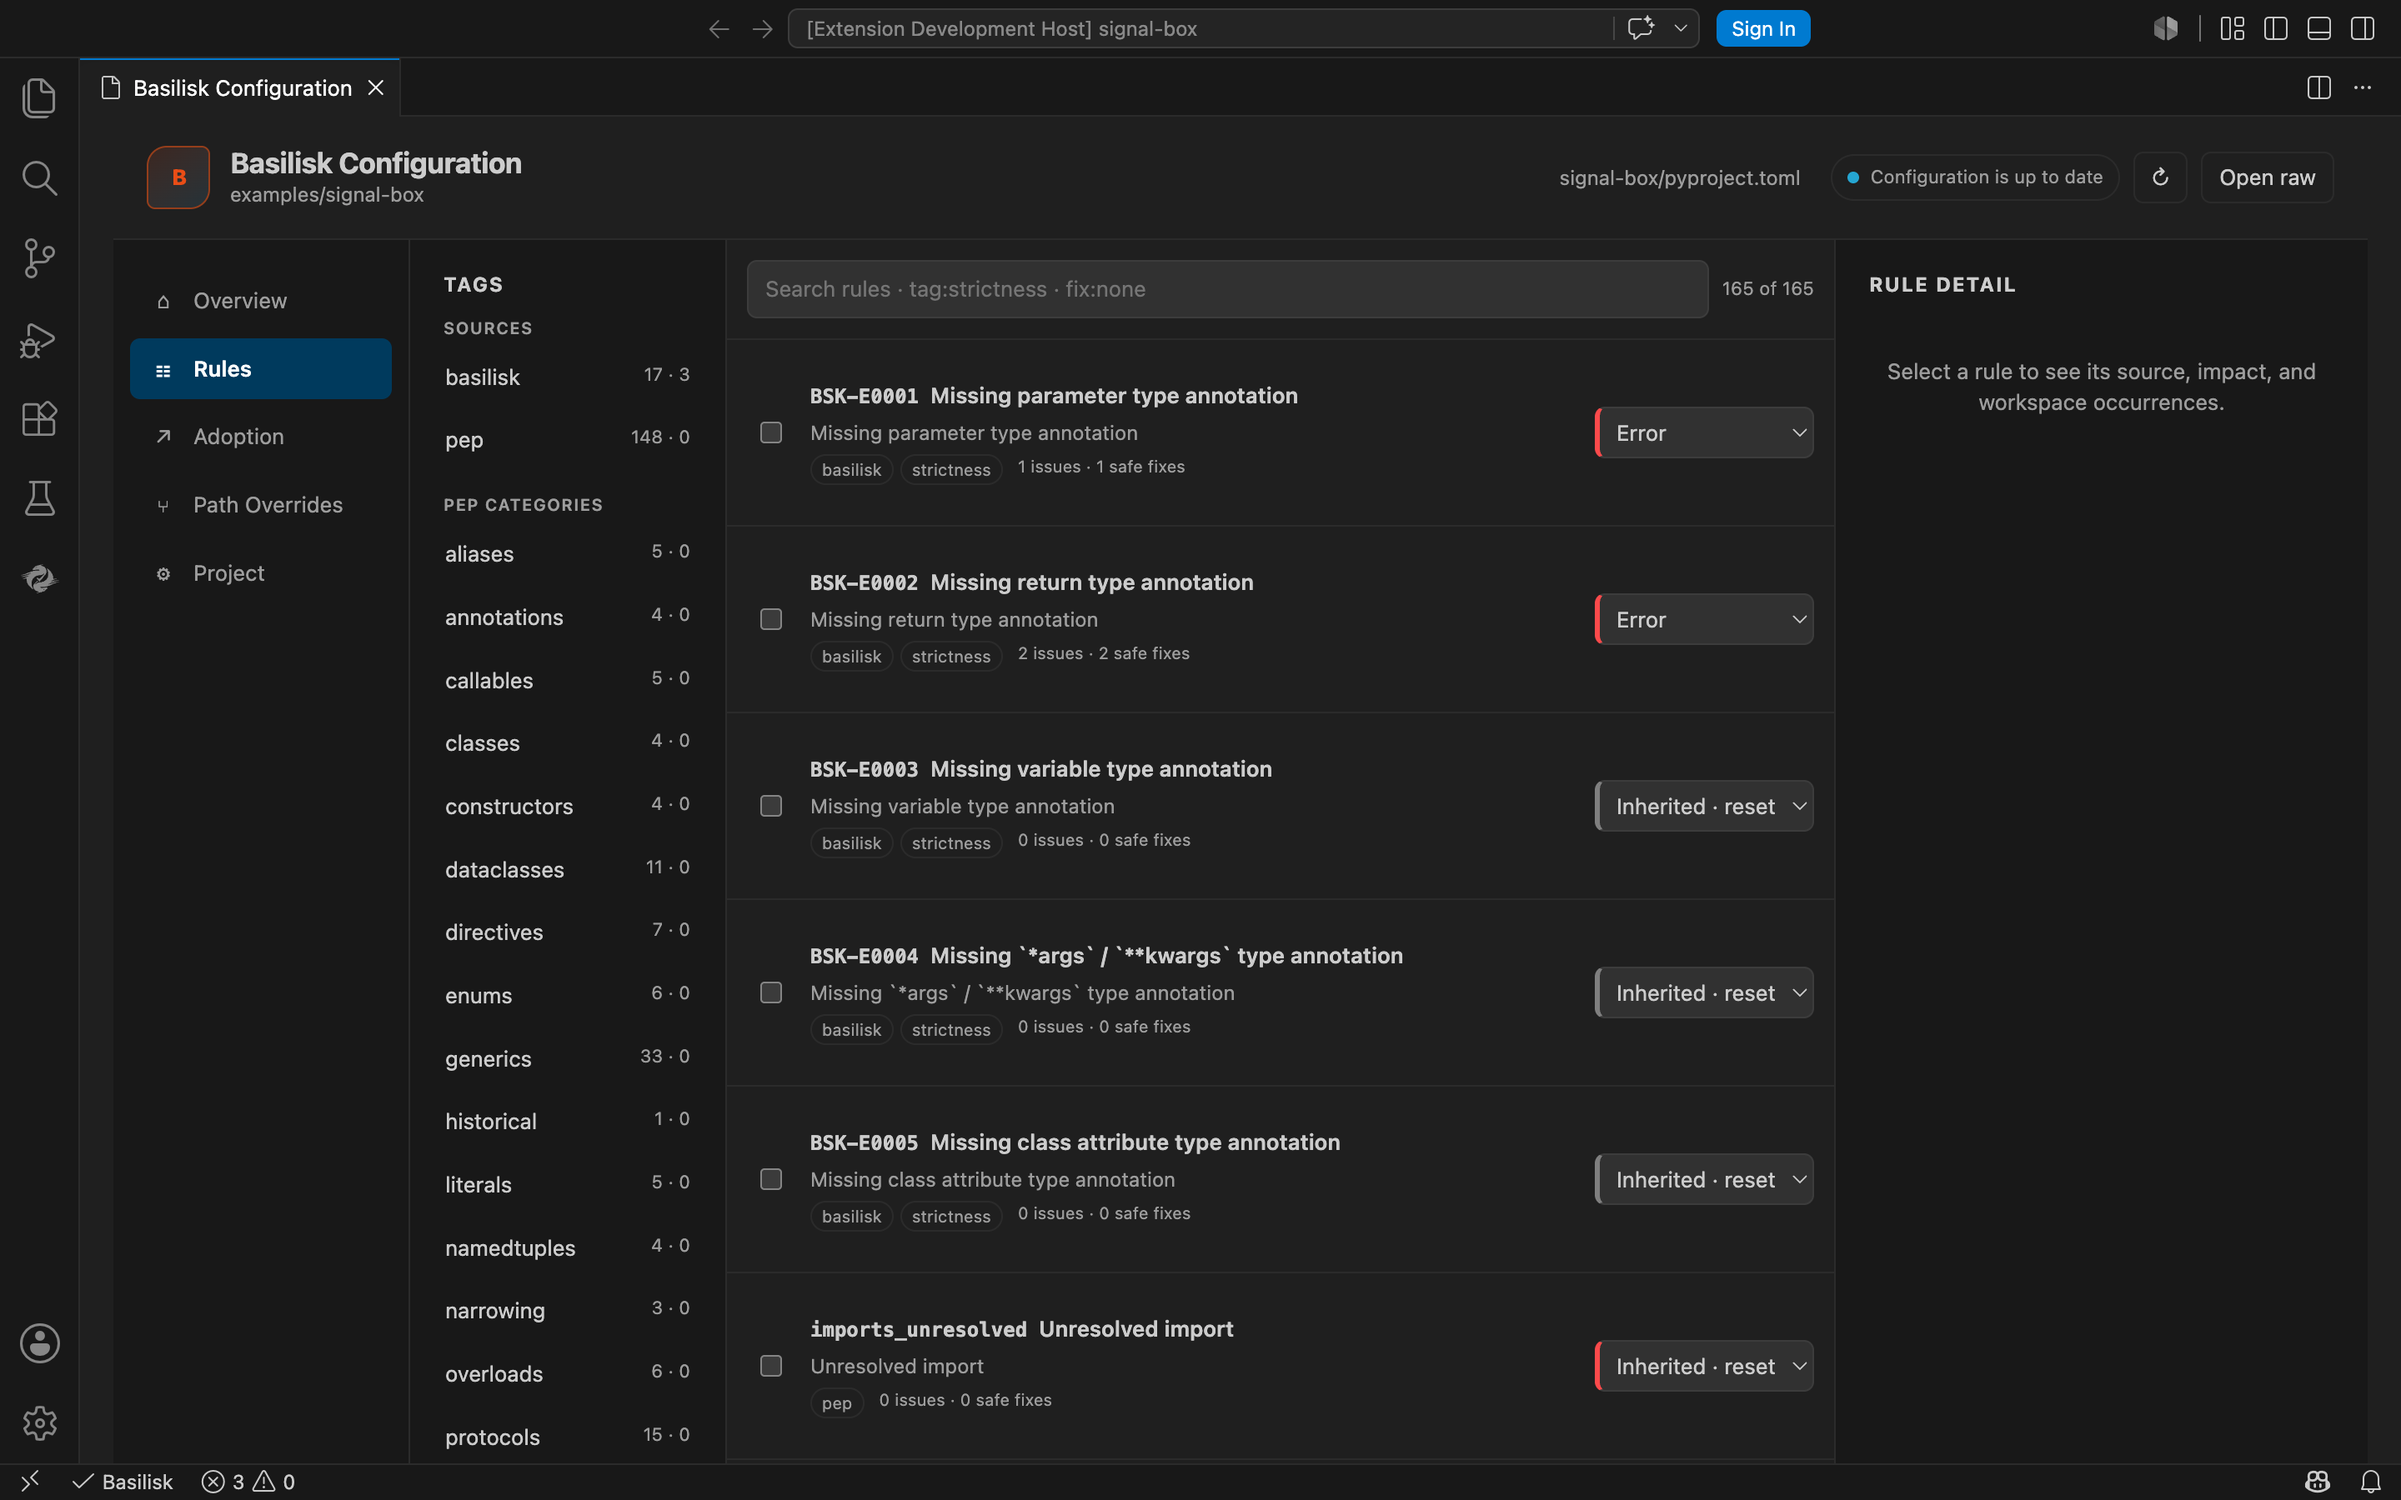
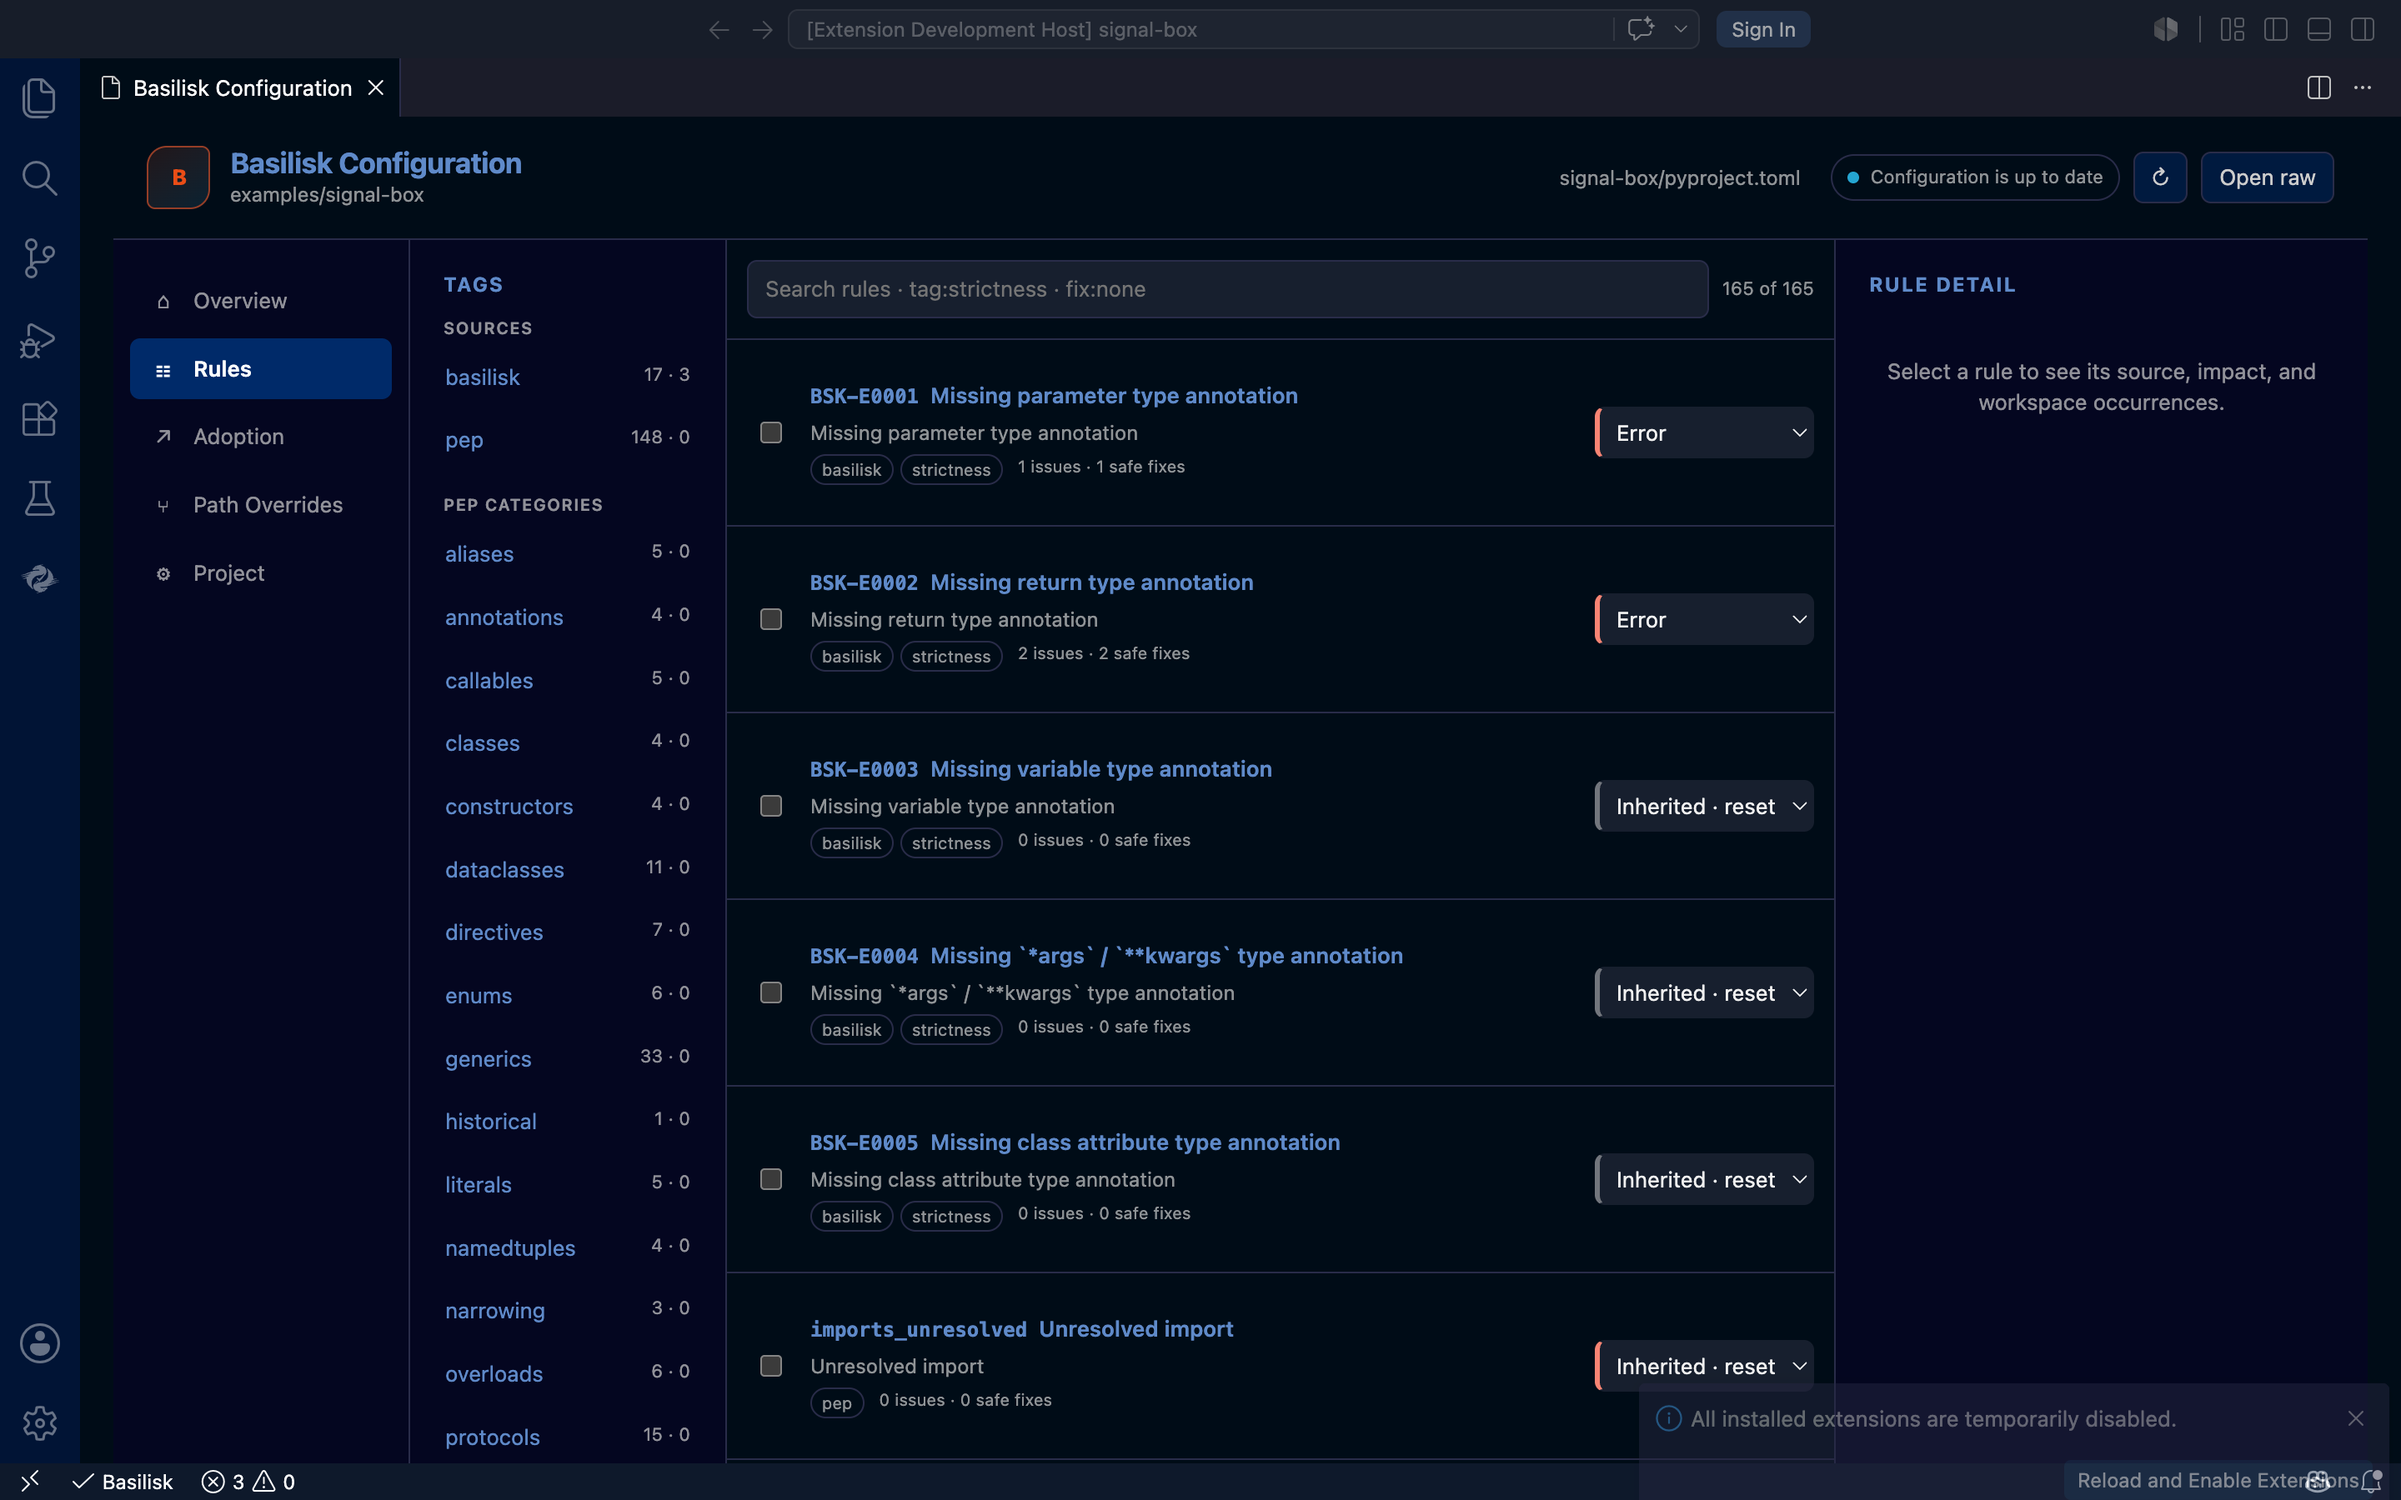
fixes

diff --git a/vscode-extension/src/test/suite/screenshots-capture.test.ts b/vscode-extension/src/test/suite/screenshots-capture.test.ts
@@ -71,7 +71,7 @@ async function captureBookConfigurationPreview(
     }
     await prepareWindow();
     await sleep(800);
-    await takeWindowScreenshot('09-configuration-preview.png');
+    await takeWindowScreenshot('09-configuration-preview-full.png');
 }
 
 suite('Editor screenshots', function () {
@@ -186,7 +186,7 @@ suite('Editor screenshots', function () {
             await sleep(1_200);
             const bookCapture = process.env.BASILISK_BOOK_SCREENSHOTS !== undefined;
             await takeWindowScreenshot(
-                bookCapture ? '09-configuration-editor.png' : 'vscode-configuration-editor.png',
+                bookCapture ? '09-configuration-editor-full.png' : 'vscode-configuration-editor.png',
             );
             if (bookCapture) {
                 await captureBookConfigurationPreview(controller, store);

diff --git a/book/scripts/capture_editor_screenshots.py b/book/scripts/capture_editor_screenshots.py
@@ -13,6 +13,7 @@ BOOK_ROOT = Path(__file__).resolve().parents[1]
 REPO_ROOT = BOOK_ROOT.parent
 EXTENSION_ROOT = REPO_ROOT / "vscode-extension"
 OUTPUT_DIR = BOOK_ROOT / "assets" / "screenshots"
+MASTER_DIR = OUTPUT_DIR / "masters"
 WORKSPACE = BOOK_ROOT / "examples" / "signal-box"
 
 
@@ -35,6 +36,7 @@ def main() -> None:
     node = require_tool("node")
     npm = require_tool("npm")
     npx = require_tool("npx")
+    magick = require_tool("magick")
     if not (WORKSPACE / "pyproject.toml").is_file():
         raise SystemExit("Signal Box screenshot workspace is incomplete")
 
@@ -50,6 +52,8 @@ def main() -> None:
     run([npm, "run", "compile"], EXTENSION_ROOT)
 
     OUTPUT_DIR.mkdir(parents=True, exist_ok=True)
+    for stale in [*OUTPUT_DIR.glob("*.signal"), *OUTPUT_DIR.glob("*.tmp-*.png")]:
+        stale.unlink(missing_ok=True)
     env = os.environ.copy()
     env.update(
         {
@@ -82,13 +86,38 @@ def main() -> None:
             watcher.kill()
             watcher.wait()
 
-    expected = [
-        OUTPUT_DIR / "09-configuration-editor.png",
-        OUTPUT_DIR / "09-configuration-preview.png",
+    captured = [
+        OUTPUT_DIR / "09-configuration-editor-full.png",
+        OUTPUT_DIR / "09-configuration-preview-full.png",
     ]
-    missing = [path.name for path in expected if not path.is_file()]
+    missing = [path.name for path in captured if not path.is_file()]
     if missing:
         raise SystemExit(f"Screenshot capture did not produce: {', '.join(missing)}")
+
+    MASTER_DIR.mkdir(parents=True, exist_ok=True)
+    editor_master = MASTER_DIR / captured[0].name
+    preview_master = MASTER_DIR / captured[1].name
+    captured[0].replace(editor_master)
+    captured[1].replace(preview_master)
+    crops = [
+        (editor_master, "2130x1331+90+130", OUTPUT_DIR / "09-configuration-editor.png"),
+        (preview_master, "1600x1000+680+370", OUTPUT_DIR / "09-configuration-preview.png"),
+    ]
+    for master, geometry, target in crops:
+        run(
+            [
+                magick,
+                str(master),
+                "-crop",
+                geometry,
+                "+repage",
+                "-resize",
+                "1600x1000!",
+                "-strip",
+                str(target),
+            ],
+            REPO_ROOT,
+        )
     print("Captured real Chapter 9 VS Code screenshots.")
 
 

diff --git a/book/manuscript/09-configure-the-project.md b/book/manuscript/09-configure-the-project.md
@@ -42,10 +42,10 @@ forgot to mention.
 
 There are consequently two useful rule sources in the editor:
 
-- Core rules are selected by Basilisk's unconfigured default and implement the
-  Python typing baseline used by the checker.
-- Basilisk rules add project policy beyond that baseline and remain off until
-  the project selects them.
+- Python typing-spec rules, labelled `pep` in the Source facet, are selected by
+  Basilisk's unconfigured default and implement the checker's typing baseline.
+- Basilisk rules, labelled `basilisk`, add project policy beyond that baseline
+  and remain off until the project selects them.
 
 This distinction is more precise than a “strictness level.” A project may want
 required annotations but not another house rule, or may want an opt-in rule at
@@ -82,8 +82,8 @@ particularly quiet way to waste an afternoon.
 
 The editor itself is not a second policy store. It asks the Basilisk language
 server for the live catalog and active configuration, then asks the server to
-prepare and apply changes to that file. **Open raw** takes you back to the
-durable source of truth.
+prepare and apply changes to that file. Once the source exists, **Open raw**
+takes you back to the durable source of truth.
 
 ## Read the Rules view
 
@@ -127,7 +127,7 @@ values that can be stored.
 | Editor choice | What it means | Stored result |
 |---|---|---|
 | **Inherited · reset** | Remove this explicit entry and return to the rule's default selection | No entry |
-| **Native severity** | Use the concrete severity declared by this rule | `error`, `warning`, `info`, or `disabled` |
+| **Native severity** | Use the concrete severity declared by this rule | `error`, `warning`, or `info` |
 | **Error** | Select the rule and report its diagnostics as errors | `error` |
 | **Warning** | Select the rule and report its diagnostics as warnings | `warning` |
 | **Info** | Select the rule and report its diagnostics as information | `info` |
@@ -180,9 +180,9 @@ rule. Source files elsewhere still receive the project-level error.
 
 ![The real Basilisk preview dialog shows BSK-E0002 changing from inherited to warning only for tests, along with recalculated workspace impact and separate Keep editing and Apply once actions.](../assets/screenshots/09-configuration-preview.png)
 
-*Figure 9.3 — The captured preview is deliberately left unapplied. It proves
-what would be written and how the current Signal Box diagnostics would be
-reclassified without mutating the fixture used to reproduce the image.*
+*Figure 9.3 — The captured preview is deliberately left unapplied. It shows
+which persisted entry would change and how the current Signal Box diagnostics
+would be reclassified without mutating the fixture used to reproduce the image.*
 
 Read the lower line first: it names `BSK-E0002`, the `tests/**` path, and the
 change from inherited path behaviour to Warning. Then read the impact cards.
@@ -198,8 +198,8 @@ on which you based the decision have changed.
 
 Path entries are best when they express a real boundary—tests, generated code,
 or a deliberately isolated compatibility area. Keep patterns simple and avoid
-overlap where possible. If patterns overlap, an exact non-wildcard path wins
-over a wildcard; deeper and more literal patterns then outrank broader ones.
+overlap where possible. If patterns overlap, a non-wildcard pattern outranks a
+wildcard; deeper and more literal patterns then outrank broader ones.
 You should not need that rule to understand an ordinary configuration.
 
 ## Presets are recipes, not modes
@@ -209,7 +209,7 @@ The editor can advertise presets such as **Strict**, **Maximum**, and
 
 - Strict previews every live rule at its own native severity.
 - Maximum previews every live rule at error severity.
-- Suppression audit previews the suppression-policy tag at native severity.
+- Suppression audit previews the `suppressions` tag at native severity.
 
 Applying one expands it into ordinary per-rule entries. Basilisk does not store
 `mode = "strict"`, and the preset does not hover in the background changing
@@ -227,8 +227,8 @@ complete decision:
    `BSK-E0001` and `BSK-E0002` at error.
 2. Open **Basilisk: Open Configuration Editor**. Confirm that the source badge
    names `signal-box/pyproject.toml`.
-3. In Rules, select `BSK-E0002`. Open Path Overrides, enter `tests/**`, choose
-   Warning, and request a preview.
+3. In Rules, tick the checkbox beside `BSK-E0002`. Open Path Overrides, enter
+   `tests/**`, choose Warning, and request a preview.
 4. Before applying, predict the result: the helper in
    `tests/test_readings.py` becomes a warning; the missing return in
    `src/signal_box/readings.py` remains an error; the missing parameter remains

diff --git a/book/assets/screenshots/README.md b/book/assets/screenshots/README.md
@@ -15,6 +15,8 @@ make -C book screenshots
 ```
 
 The command builds and stages the current Basilisk binaries, launches a headed
-VS Code Extension Development Host, waits for the real LSP snapshot and
-preview, and writes both 2880 × 1800 PNGs here. The figure ledger records the
-environment and keeps the captures behind a versioned-release publication gate.
+VS Code Extension Development Host, and waits for the real LSP snapshot and
+preview. It preserves both 2880 × 1800 full-window captures under `masters/`,
+then makes deterministic 1600 × 1000 publication crops here so interface text
+remains readable in the EPUB. The figure ledger records the environment and
+keeps the captures behind a versioned-release publication gate.
